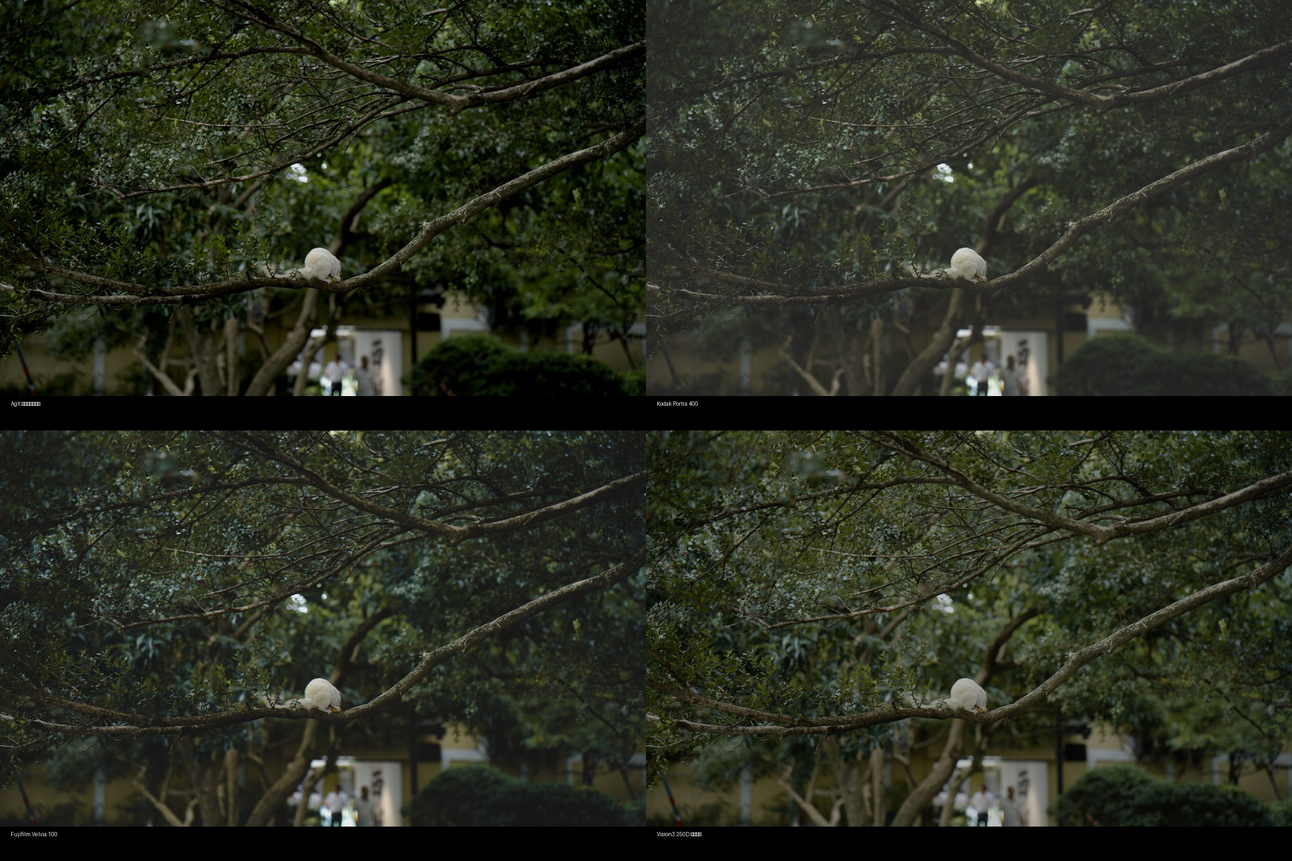
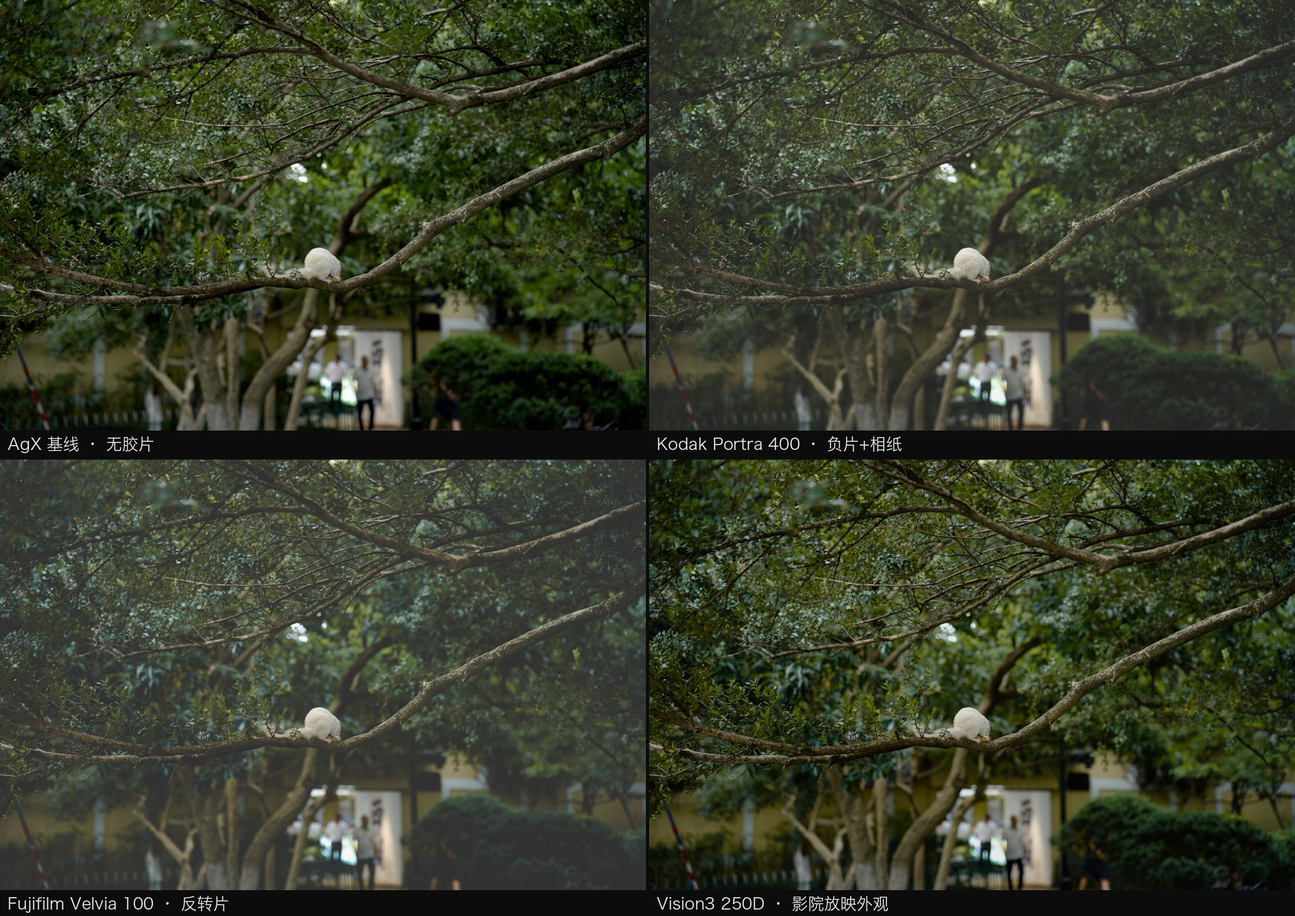
docs: reorganize README, tutorials and user guide; full stock roster; rebuilt showcase (#13)
- README (zh+en): the film-observation hero image is rebuilt from the
  current chain (the shipped one predated the reversal-flare/edge-hold
  refit AND rendered its CJK labels as tofu boxes — labels now use
  PingFang, four panes visibly differentiated). Caption drops the
  retired "layer-saturation differential" language. New third showcase
  block "the spectral print chain in one frame": the Verita 200D
  crossover pair from the film tutorial, the thing a grading filter
  cannot render. Stock-count pointer now goes to the film tutorial's
  new roster first.
- Film tutorial: new "全部胶片选项一览" section — all 20 stocks + 5
  theatrical variants classified 负片(民用 11 / 电影 5)/反转片(4),
  with calibrated WB, print medium/viewing and the editorial style
  pairing per stock (pairings marked editorial, other columns
  datasheet-sourced).
- User guide (zh+en): sections renumbered to a clean 1..11 (the 3.5 /
  3.7 / 4.5 / 4.6 interpolations are gone); the film-mode boundary
  bullet rewritten from the v1 "per-channel takeover, may drift
  unnaturally" wording to the baked-spectral-chain reality (observe/full
  convergence, SDR+AgX-only, no colour head, bounded neutralization vs
  datasheet crossover with per-family directions). Cross-references in
  the film tutorial and both guides updated.
- All three zh handbooks get a uniform nav header; ARCHITECTURE (both
  languages) had two repo-relative links missing their ../ — fixed.
  Repo-wide doc link check: 0 broken references.
[…]

diff --git a/docs/USER_GUIDE.md b/docs/USER_GUIDE.md
@@ -72,7 +72,7 @@ requirement by selecting Apple RAW.
    look here before touching anything (next section explains each number);
 3. **Adjust exposure and tone** — if needed;
 4. **Choose the output** — ordinary JPEG or HDR, for sharing or for archiving
-   (section 5);
+   (section 9);
 5. **Update the preview to confirm, then export.**
 
 ---
@@ -102,7 +102,7 @@ median −3 EV → this is a night scene, don't force the exposure up.
 
 ---
 
-## 3.5 White balance: As Shot vs fixed Kelvin
+## 4. White balance: As Shot vs fixed Kelvin
 
 Besides "As Shot", the white balance selector offers a set of **fixed color
 temperatures**. These are not for balancing by eye — eyeballing neutrality on a screen
@@ -123,7 +123,7 @@ no eye in the loop.
 Fixed Kelvin works on both decoders. A visible color cast after choosing one is
 **expected behavior** — it is precisely how film sees the world, not a malfunction.
 
-## 3.7 Film observation positions (20 stocks + 5 theatrical variants)
+## 5. Film observation positions (20 stocks + 5 theatrical variants)
 
 Up front: **this is not a one-tap filter**. It decomposes "how a roll of film saw
 the world" into independent, declared layers. The payoff is that every layer can
@@ -172,12 +172,18 @@ the reason this film simulation stays stable.
   — *looking* right on your display outranks being numerically raw;
 - **Two modes** (CLI `--film-mode`): the default **observe** is everything above —
   use it day to day. **full** is experimental: the film development model takes
-  over per-channel colour entirely (stronger character, but the colour
-  reconstruction has no measured ground truth and can drift unnaturally); SDR
-  only. Within full mode, the experimental `--film-crossover datasheet` switch
-  (GUI: "层间漂移") releases the fitted inter-layer drift onto the neutral axis
-  (mid-grey stays strictly white-balanced; e.g. Velvia's cool shadows); off by
-  default;
+  over wholesale — scene colour passes through a constrained observer inverse
+  into three emulsion exposures, through each layer's characteristic curve, the
+  dye spectra and the print/slide viewing chain, baked offline into a 65-cubed
+  LUT. Under the honest spectral chain it nearly converges with observe on most
+  photos (the two independent paths corroborate each other); SDR only, AgX
+  compression core only, no enlarger colour head. Within full mode the declared
+  `--film-crossover` switch (GUI: "层间漂移") picks how the neutral axis is
+  served: off (default) is the digitally neutralized variant (grays within two
+  stops of neutral stay strictly neutral), datasheet serves the chain verbatim —
+  shadows tint per each stock's datasheet (cine negatives green-teal, Kodachrome
+  amber, Velvia mildly cool), mid-grey anchored by the printer-light solve, tone
+  untouched;
 - No grain, no vignette — it changes *how the camera saw the world*;
 - **HDR keeps working** (observe mode): a film body plus genuinely measured
   highlight headroom — a combination no other film tool offers.
@@ -187,7 +193,7 @@ glass simulated from Kodak's published parameters (85B daylight-to-tungsten, 80A
 reverse, and others), for recreating historical workflows like "tungsten film + 85B in
 daylight". There is no strength slider — glass has no half-installed state.
 
-## 4. The other EVs in the interface
+## 6. The other EVs in the interface
 
 - **Exposure EV** (the slider): brightens/darkens everything, +1 = one stop up. 0 keeps
   the brightness relationships from capture.
@@ -199,7 +205,7 @@ daylight". There is no strength slider — glass has no half-installed state.
   decided by the earned headroom, whichever is smaller. The default +3.0 (roughly an
   800-nit screen) rarely needs changing.
 
-## 4.5 Tone card: endpoint mode and toe/shoulder offsets
+## 7. Tone card: endpoint mode and toe/shoulder offsets
 
 - **Endpoint mode**: where the curve's black/white endpoints come from.
   **Scene-adaptive** (default) follows this frame's luminance percentiles — right for
@@ -224,7 +230,7 @@ daylight". There is no strength slider — glass has no half-installed state.
 
 ---
 
-## 5. The compression cores, and which to pick
+## 8. The compression cores, and which to pick
 
 RAW records a far wider brightness range than any screen can show; the "compression
 core" is how the former is fitted into the latter. It decides the overall look —
@@ -241,7 +247,7 @@ The last two are comparison/diagnostic tools, not finishing tools.
 
 ---
 
-## 6. Output: formats and delivery profiles
+## 9. Output: formats and delivery profiles
 
 **Formats**:
 - **SDR JPEG** — an ordinary photo, viewable everywhere;
@@ -272,7 +278,7 @@ verification; files that fail it are never kept.
 
 ---
 
-## 7. FAQ
+## 10. FAQ
 
 **HDR export fails with "the reliable highlight tail supports no HDR headroom"?**
 The photo has no genuinely measured highlight content (its earned headroom is 0). This

diff --git a/README.zh-CN.md b/README.zh-CN.md
@@ -43,12 +43,26 @@ AgXRAW 也不会凭空增加 HDR 余量。
 
 同一张 RAW 的四种观察位置：AgX 基线（无胶片）、Kodak Portra 400（负片+相纸）、
 Fujifilm Velvia 100（反转片）、Vision3 250D 影院放映外观（引用原文变体）。每款
-胶卷的**校准基底**——白平衡色温、感色层分离、显影曲线、层饱和差异——由数据手册
-数据声明式构成，没有烘焙的 LUT。在此之上，每款的默认观感另加两项**明确标注为
-编辑取向（非测量）**的声明：按胶卷口碑配对的分离强度倍率与 AgX 原色几何。两者
-都在界面可见、随时可改，且永远不会覆盖你亲手设置的值——测量基底与编辑配对
-始终可区分。二十款胶卷与五款影院变体见
+胶卷的**校准基底**——白平衡色温、感色层分离、显影曲线与观看翻译——由数据手册
+的光谱数据声明式构成，没有烘焙的 LUT。在此之上，每款的默认观感另加两项**明确
+标注为编辑取向（非测量）**的声明：按胶卷口碑配对的分离强度倍率与 AgX 原色几何。
+两者都在界面可见、随时可改，且永远不会覆盖你亲手设置的值——测量基底与编辑配对
+始终可区分。二十款胶卷与五款影院变体的完整清单见
+[胶片教程](docs/FILM_TUTORIAL.zh-CN.md)，技术底座见
 [架构文档](docs/ARCHITECTURE.zh-CN.md)。
+
+## 一张图看光谱印相链
+
+| 数字中性化（默认） | 数据手册层间漂移 |
+|---|---|
+| ![off](docs/assets/film-tutorial/crop_crossover_verita_off.jpg) | ![datasheet](docs/assets/film-tutorial/crop_crossover_verita_datasheet.jpg) |
+
+实验性的胶片接管模式（full）不再是"逐通道曲线"的启发式：场景颜色经过受约束的
+观察者逆矩阵折算为三层乳剂曝光，过各层特性曲线、染料光谱与 TH-KG3 印相链，离线
+烘焙成 65³ 查找表。上图是它能渲染而调色滤镜渲染不出的东西——Verita 200D 印相链
+按数据手册实测的**层间漂移**（crossover）：雕花木门与石阶的阴影转出绿青，白墙与
+受光的卵石地纹丝不动；全图亮度差中位数为 0。左边是默认的数字中性化变体（灰阶
+严格保持中性），右边是数据手册原样。
 
 ## 功能
 

diff --git a/README.md b/README.md
@@ -47,13 +47,30 @@ If the RAW contains no reliable highlight information, AgXRAW does not invent HD
 One RAW, four observation positions: the AgX baseline (no film), Kodak Portra 400
 (negative + paper), Fujifilm Velvia 100 (reversal), and Vision3 250D in its theatrical
 quotation. Each stock's calibrated base — the WB Kelvin, the layer separation, the
-development curve, the layer-saturation differential — is constructed declaratively
-from datasheet data, with no baked LUT. The default look of a stock then adds two
+development curve, the viewing translation — is constructed declaratively from the
+datasheets' spectral data, with no baked LUT. The default look of a stock then adds two
 declarations that are explicitly editorial, not measured: a separation-strength
 pairing and an AgX primaries pairing, chosen by stock reputation. Both are visible
 in the UI, freely adjustable, and never override a value you set yourself — the
 measured base and the editorial pairing stay distinguishable. All twenty stocks and
-five theatrical variants are described in the [architecture notes](docs/ARCHITECTURE.md).
+five theatrical variants are listed in the [film tutorial](docs/FILM_TUTORIAL.zh-CN.md)
+(Chinese); the technical base lives in the [architecture notes](docs/ARCHITECTURE.md).
+
+## The spectral print chain in one frame
+
+| Digital neutralized (default) | Datasheet inter-layer crossover |
+|---|---|
+| ![off](docs/assets/film-tutorial/crop_crossover_verita_off.jpg) | ![datasheet](docs/assets/film-tutorial/crop_crossover_verita_datasheet.jpg) |
+
+The experimental film-takeover mode (full) is no longer a per-channel-curve
+heuristic: scene colour passes through a constrained observer inverse into
+three emulsion exposures, through each layer's characteristic curve, the dye
+spectra and the TH-KG3 print chain, baked offline into a 65-cubed LUT. Above is
+something it renders that no grading filter can: the Verita 200D print chain's
+measured inter-layer crossover — the carved door and stone steps in shadow turn
+green-teal while the sunlit wall and pebbles sit still, at zero median luminance
+difference. Left is the default digitally neutralized variant (grays stay
+strictly neutral); right is the datasheet served verbatim.
 
 ## Features
 

diff --git a/docs/ARCHITECTURE.md b/docs/ARCHITECTURE.md
@@ -1163,7 +1163,7 @@ decision with colour geometry or JPEG packaging.
 The near-zero body shifts are the important control: the HDR branch is spending display
 range on highlights, not using headroom as a hidden exposure lift. The percentages count
 RGB channel samples above reference white, not whole pixels. These half-resolution sheets
-are generated by [`tools/hdr_ab.py`](tools/hdr_ab.py); production JPEGs are still rendered
+are generated by [`tools/hdr_ab.py`](../tools/hdr_ab.py); production JPEGs are still rendered
 and round-trip verified at full resolution.
 
 **Mixed indoor portrait — highlight range stays in the linear lamps and reflections**
@@ -1227,7 +1227,7 @@ Sensor stacks also vary between individual bodies, so serious calibration should
 the exact camera in hand. Controlled illuminants, targets, and spectral equipment were
 not available for this calibration, so the present result is closer to a restrained
 geometric color mapping than the original ARRI skin target. Sources, assumptions, CSV
-data, and fit reports are in [`dngscan_assets/spectral/`](dngscan_assets/spectral/).
+data, and fit reports are in [`dngscan_assets/spectral/`](../dngscan_assets/spectral/).
 
 ## Appendix: looks and LUTs
 

diff --git a/docs/EDITING_TUTORIAL.zh-CN.md b/docs/EDITING_TUTORIAL.zh-CN.md
@@ -1,5 +1,7 @@
 # 修图工作流说明书 —— 每个滑条做什么，判断归你
 
+[修图教程](EDITING_TUTORIAL.zh-CN.md) · [胶片教程](FILM_TUTORIAL.zh-CN.md) · [使用说明](USER_GUIDE.zh-CN.md) · [架构与技术细节](ARCHITECTURE.zh-CN.md)
+
 这份说明书只做一件事：讲清每个滑条**干的是什么**——它改变画面的哪一部分、
 你能在照片上看到什么变化。至于"这张照片该不该这么动"，判断完整地属于你的
 眼睛。文中所有对比图都由 dngscan 按所列参数实际渲染，不是示意图；每一处
